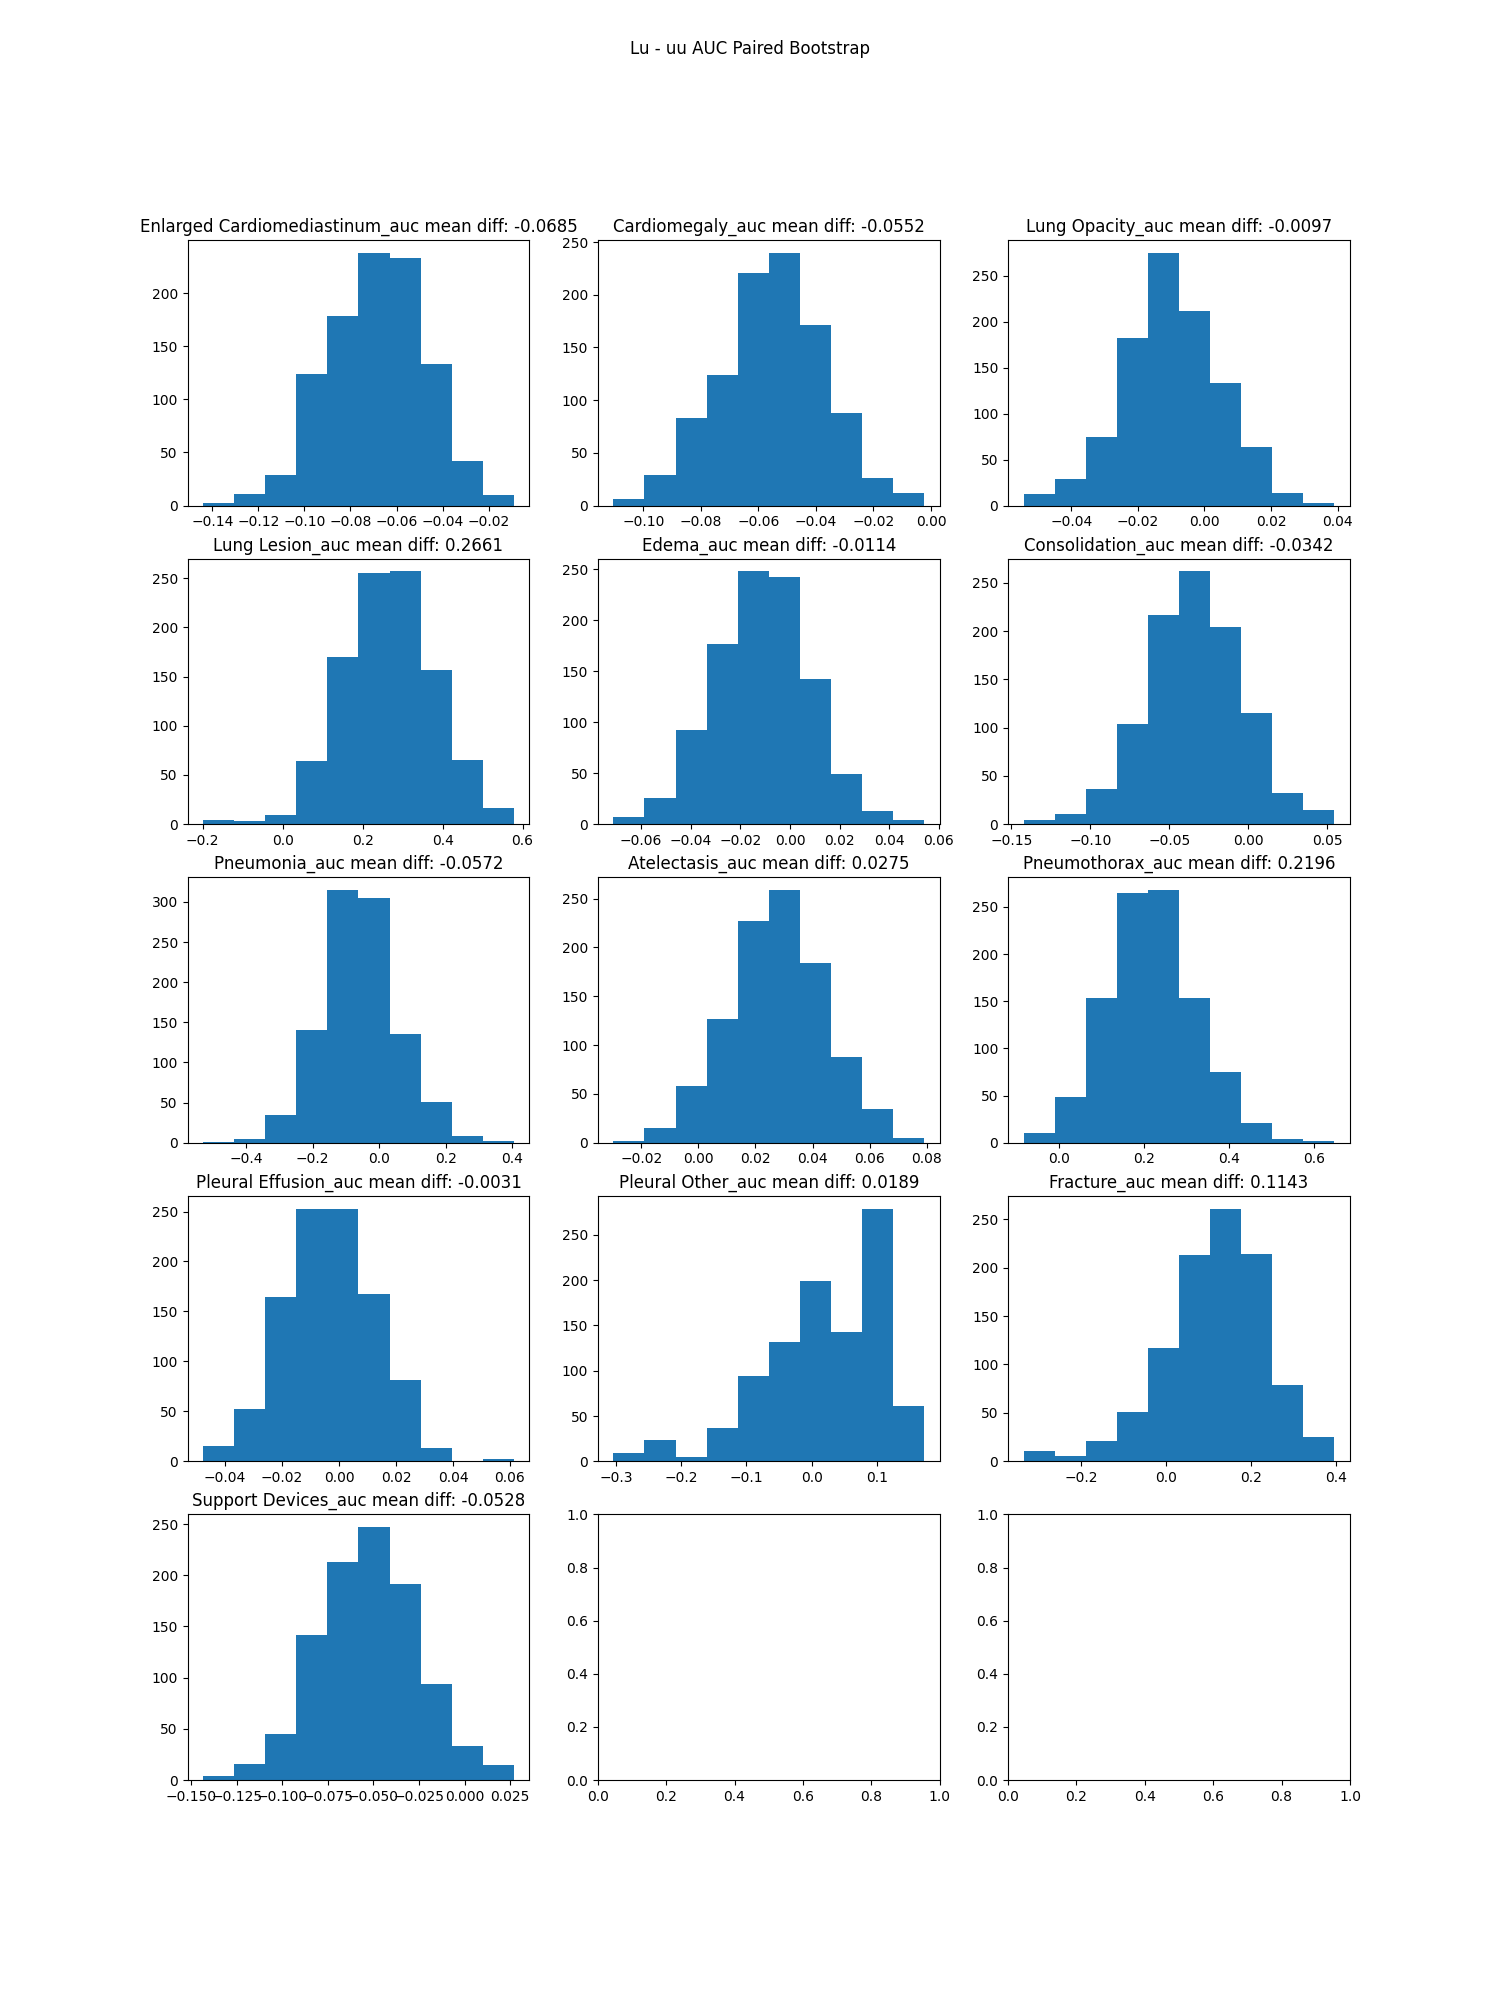
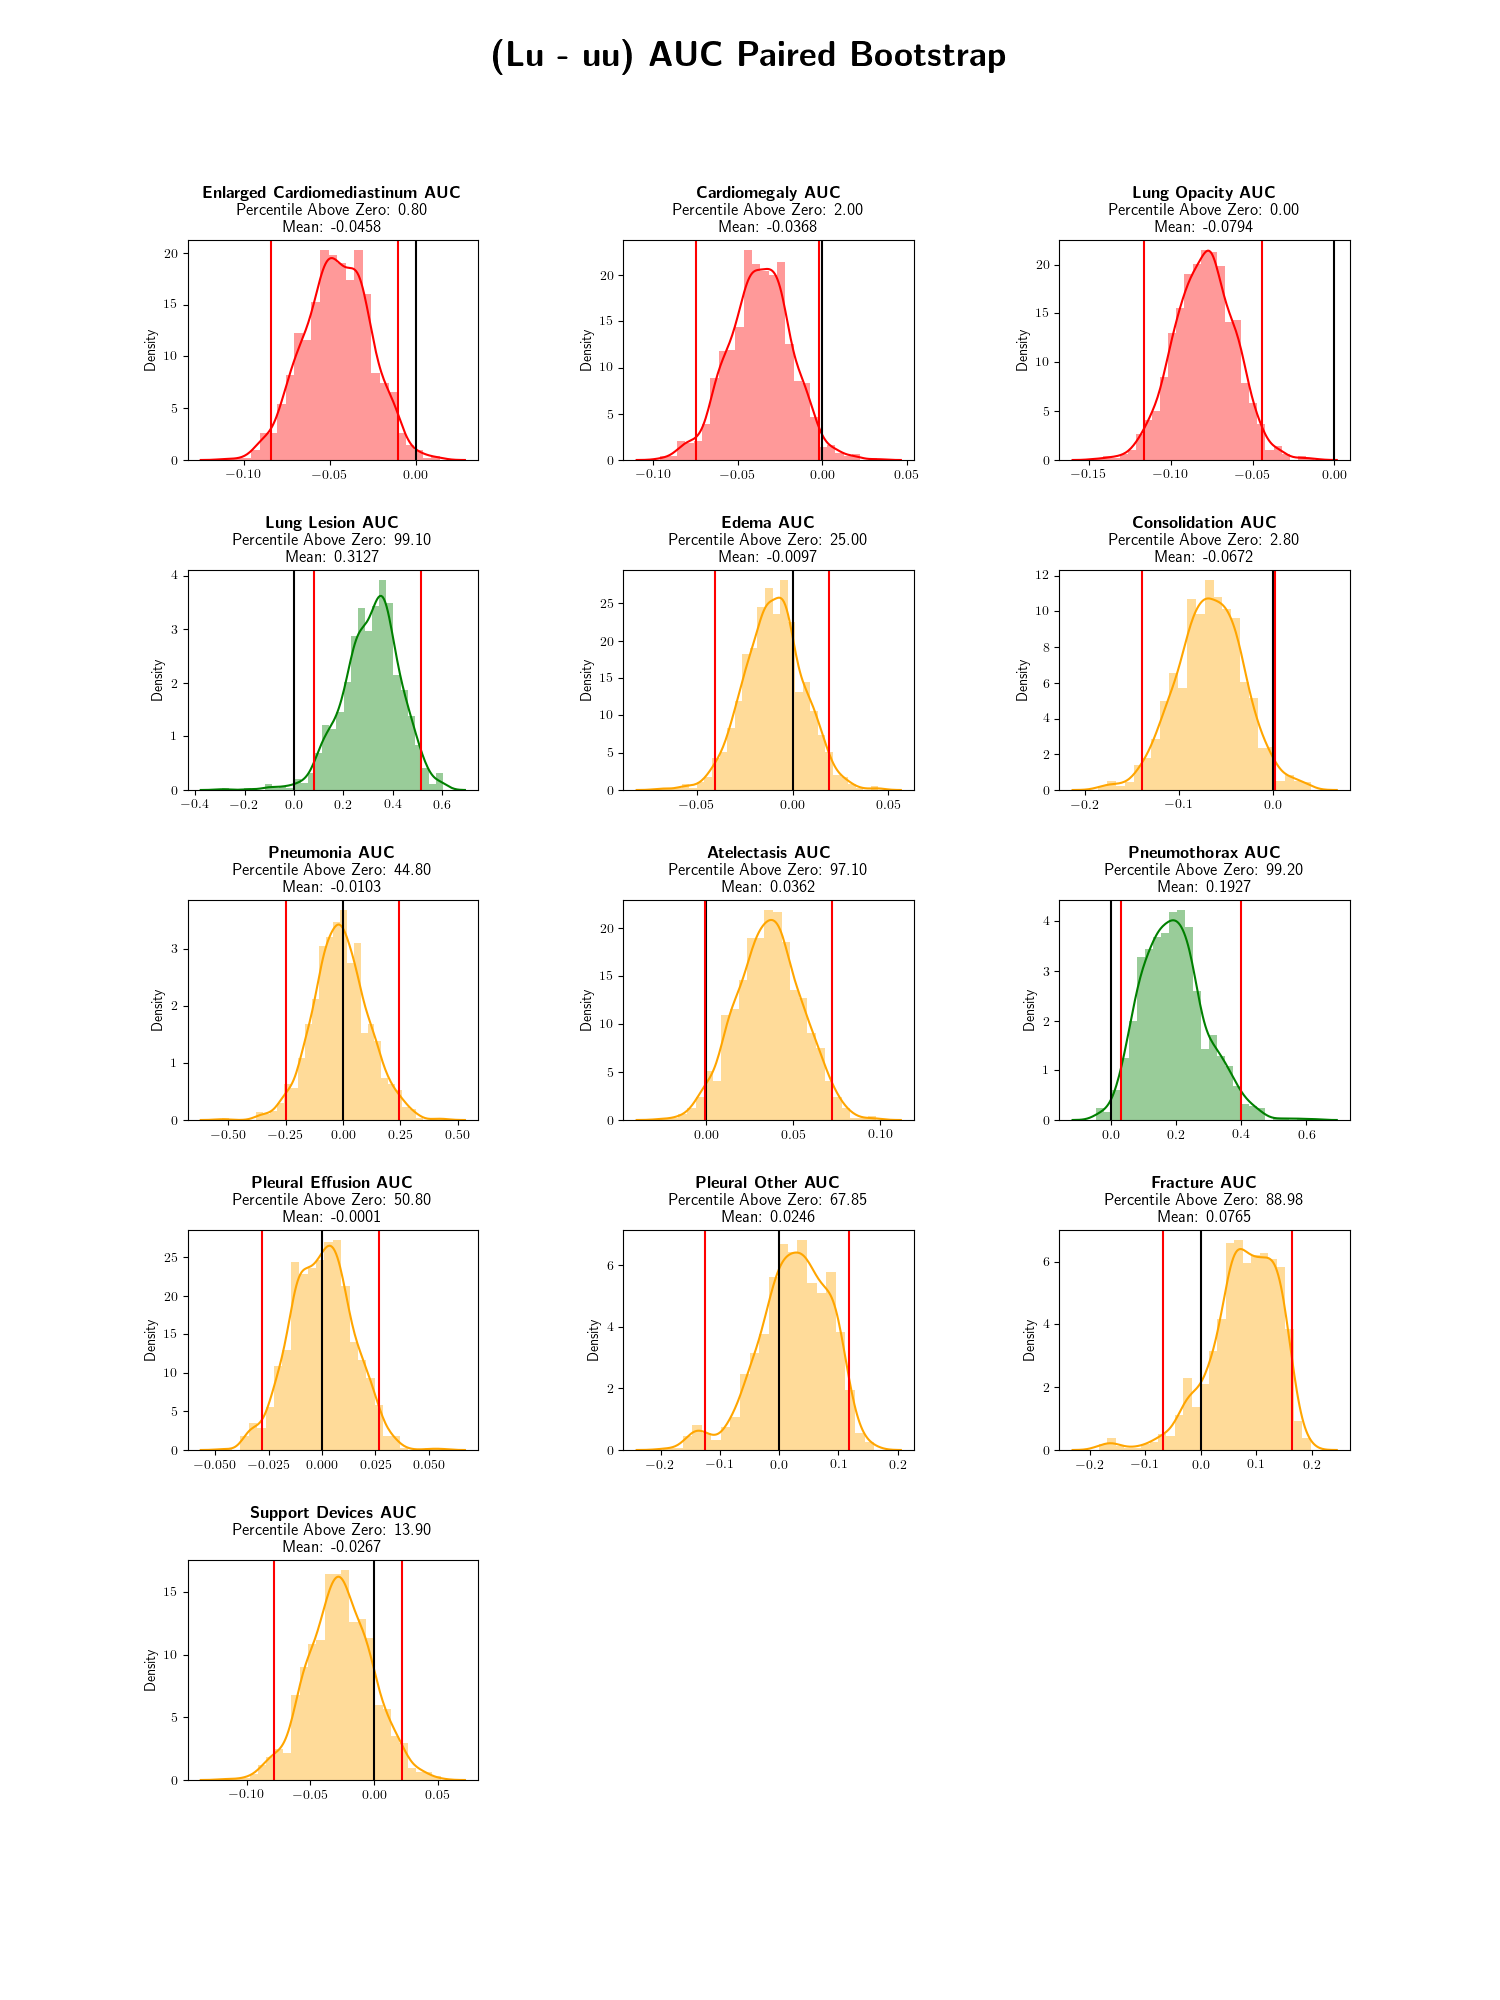
Add Experiment Eval Reform

diff --git a/eval.py b/eval.py
@@ -286,16 +286,16 @@ def plot_paired_bootstrap(model1_name, model2_name, df1, df2, metric="AUC", num_
         row = idx // num_cols
         col = idx % num_cols
         pathology_diffs = diffs[:, idx][~np.isnan(diffs[:, idx])]
-        mean, lower, upper = mean_confidence_interval(pathology_diffs, confidence=0.95)
+        lower = np.nanquantile(pathology_diffs, 0.025)
+        upper = np.nanquantile(pathology_diffs, 0.975)
         perc = (pathology_diffs > 0).sum() / len(pathology_diffs) * 100
         avg = pathology_diffs.mean()
-        threshold = 25
-        if threshold < perc < 100 - threshold:
+        if lower < 0 < upper:
             color = "orange"
-        elif perc <= threshold:
-            color = "red"
-        else:
+        elif 0 <= lower:
             color = "green"
+        else:
+            color = "red"
         
         sns.distplot(pathology_diffs, ax=axs[row, col], color=color)
         title = f"{pathology[:-4]} AUC"
